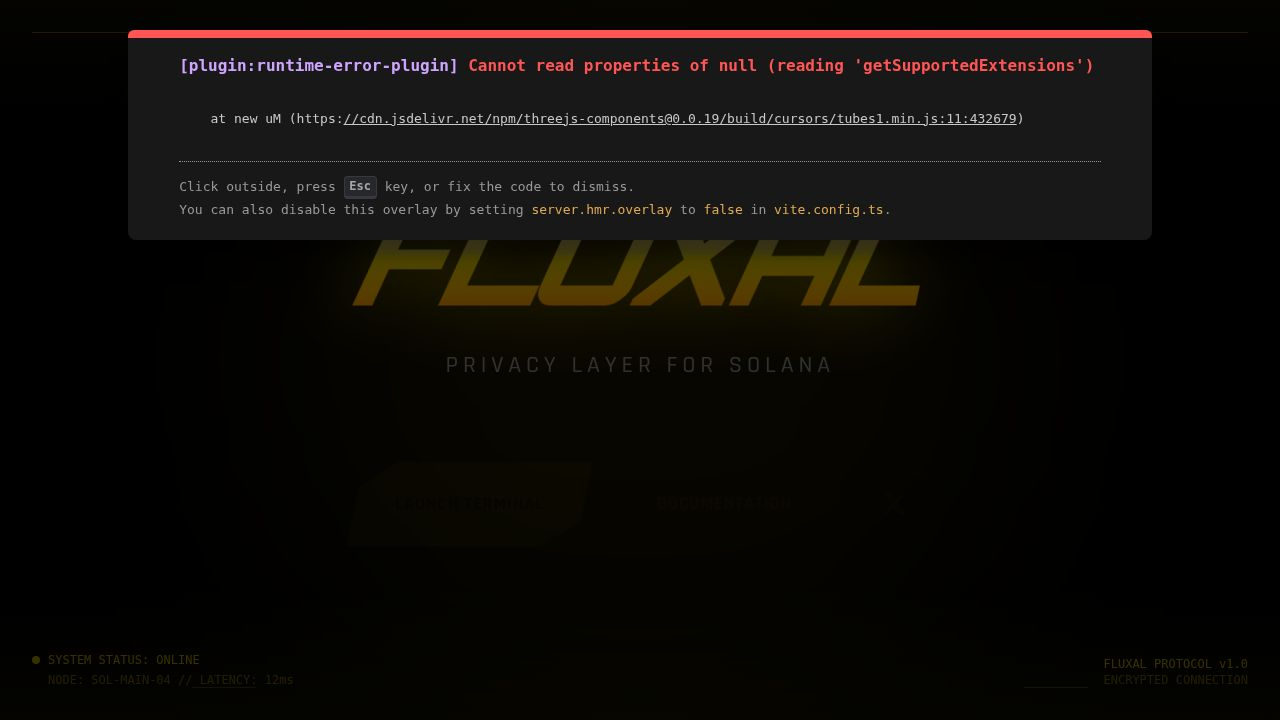
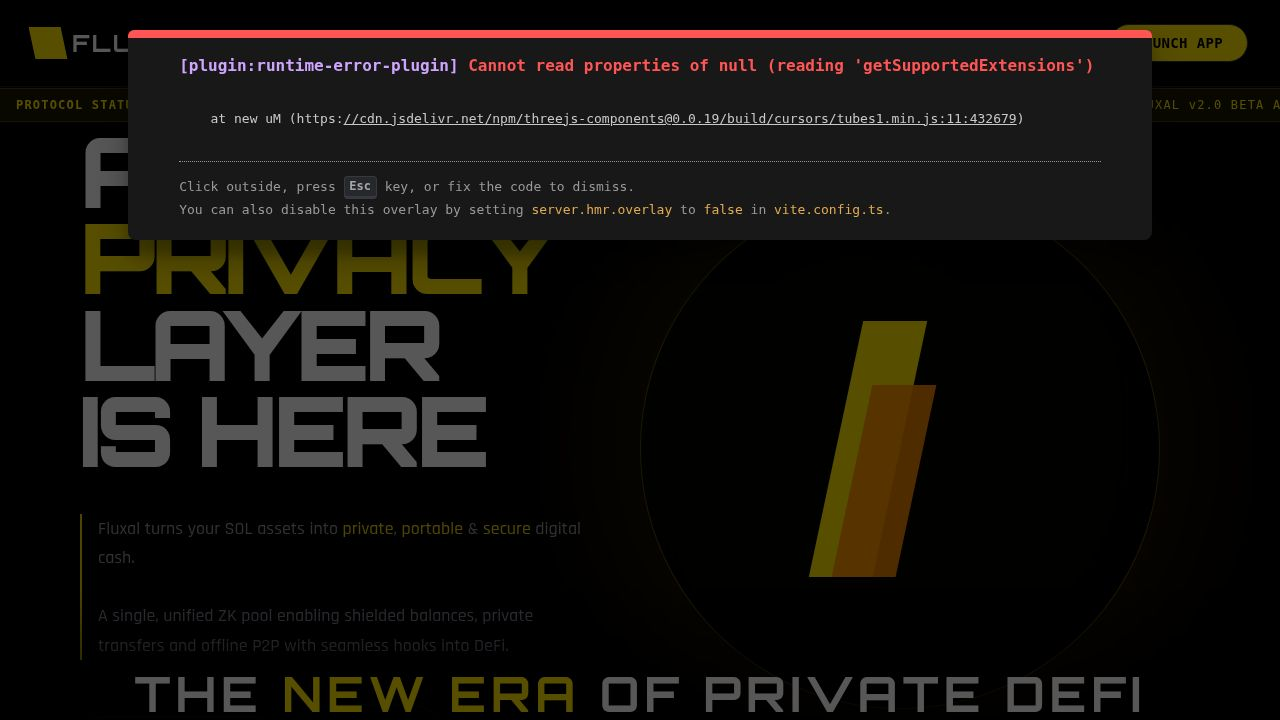
Update homepage with navigation and wallet integration
Refactors the home page component to include a new navigation bar, wallet address display with copy functionality, and integrates the FluxalLoader component for the launch sequence.

Replit-Commit-Author: Agent
Replit-Commit-Session-Id: c866b8f1-3def-4df0-9cce-536dd4f951a3
Replit-Commit-Checkpoint-Type: full_checkpoint
Replit-Commit-Event-Id: eb28b85c-f1ec-4af6-9dc8-a794ed8f773f
Replit-Commit-Screenshot-Url: https://storage.googleapis.com/screenshot-production-us-central1/56b10789-079f-4fa8-a399-7307f52e1f15/c866b8f1-3def-4df0-9cce-536dd4f951a3/D9wEFYd
Replit-Helium-Checkpoint-Created: true

diff --git a/client/src/pages/home.tsx b/client/src/pages/home.tsx
@@ -3,136 +3,173 @@ import FluxalLoader from "@/components/FluxalLoader";
 import { Button } from "@/components/ui/button";
 import { motion, AnimatePresence } from "framer-motion";
 import { useState } from "react";
-
-import xLogo from "@assets/image_1764912714351.png";
-
-import { useLocation } from "wouter";
+import { Copy, MoveRight } from "lucide-react";
+import { useToast } from "@/hooks/use-toast";
 
 export default function Home() {
   const [isLoading, setIsLoading] = useState(false);
-  const [, setLocation] = useLocation();
+  const { toast } = useToast();
 
   const handleLaunch = () => {
     setIsLoading(true);
-    // Simulate loading delay
     setTimeout(() => {
       setIsLoading(false);
       window.location.href = '/terminal.html';
     }, 3000);
   };
 
+  const copyAddress = () => {
+    navigator.clipboard.writeText("8avjtJHAHfqp4g2RR9ALAGBpSTqKPZR8nRbzStWFLUX");
+    toast({
+      title: "Address Copied",
+      description: "Contract address copied to clipboard",
+      className: "bg-[#FFE500] text-black border-none font-mono",
+    });
+  };
+
   return (
-    <div className="min-h-screen bg-black text-white overflow-hidden relative selection:bg-[#FFE500] selection:text-black">
+    <div className="min-h-screen bg-black text-white overflow-hidden relative font-rajdhani selection:bg-[#FFE500] selection:text-black">
       <AnimatePresence>
         {isLoading && (
-            <motion.div
-                initial={{ opacity: 0 }}
-                animate={{ opacity: 1 }}
-                exit={{ opacity: 0 }}
-                transition={{ duration: 0.5 }}
-                className="fixed inset-0 z-[100]"
-            >
-                <FluxalLoader />
-            </motion.div>
+          <motion.div
+            initial={{ opacity: 0 }}
+            animate={{ opacity: 1 }}
+            exit={{ opacity: 0 }}
+            transition={{ duration: 0.5 }}
+            className="fixed inset-0 z-[100]"
+          >
+            <FluxalLoader />
+          </motion.div>
         )}
       </AnimatePresence>
 
-      {/* Background Cursor Effect */}
+      {/* Cursor Effect */}
       <FluxalCursor />
 
-      {/* Static Background Glow */}
-      <div className="absolute inset-0 pointer-events-none z-0">
-        <div className="absolute top-1/2 left-1/2 -translate-x-1/2 -translate-y-1/2 w-[800px] h-[800px] bg-[#FFE500]/5 rounded-full blur-[120px]" />
-        <div className="absolute top-1/2 left-1/2 -translate-x-1/2 -translate-y-1/2 w-[600px] h-[400px] bg-[#FF8C00]/5 rounded-full blur-[100px] mix-blend-screen" />
+      {/* Top Navigation Bar */}
+      <nav className="fixed top-0 w-full z-50 flex items-center justify-between px-8 py-6 bg-black/50 backdrop-blur-sm border-b border-white/10">
+        <div className="flex items-center gap-2">
+          <div className="w-8 h-8 bg-[#FFE500] transform skew-x-12" />
+          <span className="text-2xl font-orbitron font-bold tracking-widest text-white">FLUXAL</span>
+        </div>
+
+        <div className="hidden md:flex items-center gap-8 font-mono text-sm text-gray-400 tracking-widest">
+          <a href="#" className="hover:text-[#FFE500] transition-colors">HOME</a>
+          <a href="#" className="hover:text-[#FFE500] transition-colors">FEATURES</a>
+          <a href="#" className="hover:text-[#FFE500] transition-colors">PRODUCTS</a>
+          <a href="#" className="hover:text-[#FFE500] transition-colors">NEWS</a>
+          <a href="#" className="hover:text-[#FFE500] transition-colors">DOCS</a>
+          <a href="#" className="hover:text-[#FFE500] transition-colors">FAQ</a>
+        </div>
+
+        <Button 
+          onClick={handleLaunch}
+          className="bg-[#FFE500] hover:bg-[#FF8C00] text-black font-bold rounded-full px-6 font-mono tracking-wide"
+        >
+          LAUNCH APP
+        </Button>
+      </nav>
+
+      {/* Ticker Bar */}
+      <div className="fixed top-[88px] w-full z-40 bg-[#FFE500]/10 border-y border-[#FFE500]/20 py-2 px-4 overflow-hidden">
+        <div className="flex items-center gap-4 text-xs font-mono text-[#FFE500] tracking-widest whitespace-nowrap animate-marquee">
+          <span className="font-bold">PROTOCOL STATUS: LIVE</span>
+          <span>//</span>
+          <span>PRIVACY POOL TVL: $142,892,102</span>
+          <span>//</span>
+          <span>LATEST AUDIT PASSED (CERTIK)</span>
+          <span>//</span>
+          <span>NEW ZK-SNARK CIRCUITS DEPLOYED</span>
+          <span>//</span>
+          <span>FLUXAL v2.0 BETA ACCESS OPEN</span>
+        </div>
       </div>
 
-      {/* Content Overlay */}
-      <div className="relative z-10 flex flex-col items-center justify-center min-h-screen px-4">
+      {/* Main Hero Section */}
+      <div className="relative z-10 flex flex-col md:flex-row min-h-screen pt-32 px-8 md:px-20">
         
-        <motion.div
-          initial={{ opacity: 0, scale: 0.9 }}
-          animate={{ opacity: 1, scale: 1 }}
-          transition={{ duration: 0.8, ease: "easeOut" }}
-          className="text-center relative"
-        >
-          {/* Main Title */}
-          <h1 className="text-7xl md:text-9xl font-black tracking-tighter font-orbitron bg-clip-text text-transparent bg-gradient-to-b from-white via-[#FFE500] to-[#FF8C00] drop-shadow-[0_0_35px_rgba(255,229,0,0.6)] select-none italic transform -skew-x-12">
-            FLUXAL
-          </h1>
+        {/* Left Content */}
+        <div className="flex-1 flex flex-col justify-center space-y-10">
           
-          {/* Subtitle */}
-          <motion.p 
-            initial={{ opacity: 0, y: 20 }}
-            animate={{ opacity: 1, y: 0 }}
-            transition={{ delay: 0.4, duration: 0.6 }}
-            className="mt-6 text-xl md:text-2xl text-neutral-400 font-rajdhani tracking-[0.2em] uppercase font-medium"
+          {/* Main Heading */}
+          <motion.div
+            initial={{ opacity: 0, x: -20 }}
+            animate={{ opacity: 1, x: 0 }}
+            transition={{ duration: 0.8 }}
+            className="relative"
           >
-            Privacy Layer for Solana
-          </motion.p>
+            <h1 className="text-6xl md:text-8xl font-black leading-[0.9] font-orbitron text-white tracking-tighter uppercase">
+              A NEW<br />
+              <span className="text-[#FFE500]">PRIVACY</span><br />
+              LAYER<br />
+              IS HERE
+            </h1>
+          </motion.div>
 
-          {/* Action Buttons */}
+          {/* Description */}
+          <motion.div
+            initial={{ opacity: 0 }}
+            animate={{ opacity: 1 }}
+            transition={{ delay: 0.4, duration: 0.8 }}
+            className="max-w-xl"
+          >
+            <p className="text-lg text-gray-400 font-medium leading-relaxed border-l-2 border-[#FFE500] pl-4">
+              Fluxal turns your SOL assets into <span className="text-[#FFE500]">private</span>, <span className="text-[#FFE500]">portable</span> & <span className="text-[#FFE500]">secure</span> digital cash.
+              <br /><br />
+              A single, unified ZK pool enabling shielded balances, private transfers and offline P2P with seamless hooks into DeFi.
+            </p>
+          </motion.div>
+
+          {/* Contract Address Box */}
           <motion.div
             initial={{ opacity: 0, y: 20 }}
             animate={{ opacity: 1, y: 0 }}
-            transition={{ delay: 0.8, duration: 0.6 }}
-            className="mt-16 flex flex-col md:flex-row gap-8 justify-center items-center"
+            transition={{ delay: 0.6, duration: 0.6 }}
+            className="flex flex-col md:flex-row gap-4 items-start md:items-center"
           >
-            <Button 
-              size="lg"
-              onClick={handleLaunch}
-              className="relative group overflow-hidden bg-[#FFE500] text-black hover:bg-[#FFDD00] hover:text-black hover:scale-105 transition-all duration-300 text-lg font-bold px-10 py-7 rounded-none border-none uppercase tracking-wider transform -skew-x-12"
-              style={{ clipPath: "polygon(15% 0, 100% 0, 100% 70%, 85% 100%, 0 100%, 0 30%)" }}
+            <div 
+              onClick={copyAddress}
+              className="group cursor-pointer flex items-center gap-3 px-4 py-3 rounded-full border border-white/20 bg-white/5 hover:bg-white/10 hover:border-[#FFE500]/50 transition-all duration-300"
             >
-              <span className="relative z-10 transform skew-x-12 inline-block">Launch Terminal</span>
-              <div className="absolute inset-0 bg-white/20 translate-y-full group-hover:translate-y-0 transition-transform duration-300" />
-            </Button>
+              <span className="font-mono text-sm text-[#FFE500]">8avjtJ...StWFLUX</span>
+              <Copy className="w-4 h-4 text-gray-400 group-hover:text-white transition-colors" />
+            </div>
             
             <Button 
-              variant="outline"
-              size="lg"
-              className="relative group overflow-hidden border border-[#FFE500]/50 text-[#FFE500] hover:bg-[#FFE500]/10 hover:text-[#FFE500] hover:border-[#FFE500] hover:scale-105 transition-all duration-300 text-lg font-bold px-10 py-7 rounded-none uppercase tracking-wider transform -skew-x-12 bg-transparent backdrop-blur-sm"
-              style={{ clipPath: "polygon(15% 0, 100% 0, 100% 70%, 85% 100%, 0 100%, 0 30%)" }}
+              variant="outline" 
+              className="rounded-full px-8 py-6 border-white/20 text-white hover:bg-[#FFE500] hover:text-black hover:border-[#FFE500] transition-all font-bold tracking-widest"
             >
-              <span className="relative z-10 transform skew-x-12 inline-block">Documentation</span>
+              LEARN MORE
             </Button>
-
-            <a 
-              href="https://x.com/FluxalAI" 
-              target="_blank" 
-              rel="noreferrer"
-              className="relative group overflow-hidden flex items-center justify-center border border-[#FFE500]/50 text-[#FFE500] hover:bg-[#FFE500]/10 hover:text-[#FFE500] hover:border-[#FFE500] hover:scale-105 transition-all duration-300 w-[60px] h-[60px] rounded-none uppercase tracking-wider transform -skew-x-12 bg-transparent backdrop-blur-sm"
-              style={{ clipPath: "polygon(25% 0, 100% 0, 100% 70%, 75% 100%, 0 100%, 0 30%)" }}
-            >
-               <svg viewBox="0 0 24 24" aria-hidden="true" className="w-6 h-6 fill-current relative z-10 transform skew-x-12">
-                <path d="M18.244 2.25h3.308l-7.227 8.26 8.502 11.24H16.17l-5.214-6.817L4.99 21.75H1.68l7.73-8.835L1.254 2.25H8.08l4.713 6.231zm-1.161 17.52h1.833L7.084 4.126H5.117z" />
-              </svg>
-            </a>
           </motion.div>
-        </motion.div>
-      </div>
 
-      {/* Footer / Status / HUD Elements */}
-      <div className="absolute bottom-8 left-8 flex flex-col gap-1 text-[10px] md:text-xs text-[#FFE500]/60 font-mono z-10 pointer-events-none select-none">
-        <div className="flex items-center gap-2">
-          <div className="w-2 h-2 bg-[#FFE500] rounded-full animate-pulse" />
-          <p>SYSTEM STATUS: ONLINE</p>
         </div>
-        <p className="pl-4 opacity-60">NODE: SOL-MAIN-04 // LATENCY: 12ms</p>
+
+        {/* Right Visual (3D Element Placeholder) */}
+        <div className="flex-1 flex items-center justify-center relative">
+          <div className="relative w-[400px] h-[400px] md:w-[600px] md:h-[600px]">
+            {/* Glowing Orb / Logo Placeholder */}
+            <div className="absolute inset-0 bg-gradient-to-br from-[#FFE500]/20 to-[#FF8C00]/20 rounded-full blur-3xl animate-pulse" />
+            <div className="absolute inset-10 bg-black/80 rounded-full border border-[#FFE500]/30 backdrop-blur-xl flex items-center justify-center overflow-hidden">
+               {/* Stylized 'F' or Logo */}
+               <div className="relative w-48 h-64 flex">
+                  <div className="w-16 h-full bg-[#FFE500] transform -skew-x-12 translate-x-8" />
+                  <div className="w-16 h-48 mt-16 bg-[#FF8C00] transform -skew-x-12 -translate-x-4 opacity-90" />
+               </div>
+            </div>
+          </div>
+        </div>
+
       </div>
 
-      <div className="absolute bottom-8 right-8 text-right text-[10px] md:text-xs text-[#FFE500]/60 font-mono z-10 pointer-events-none select-none">
-        <p>FLUXAL PROTOCOL v1.0</p>
-        <p className="opacity-60">ENCRYPTED CONNECTION</p>
+      {/* Bottom Banner */}
+      <div className="absolute bottom-0 w-full text-center pb-8 pt-20 bg-gradient-to-t from-black to-transparent z-20 pointer-events-none">
+        <h2 className="text-3xl md:text-5xl font-orbitron font-bold tracking-widest text-white">
+          THE <span className="text-[#FFE500]">NEW ERA</span> OF PRIVATE DEFI
+        </h2>
+        <div className="w-32 h-1 bg-[#FFE500] mx-auto mt-4" />
       </div>
 
-      {/* Decorative HUD Lines */}
-      <div className="absolute top-0 left-0 w-full h-32 bg-gradient-to-b from-[#FFE500]/5 to-transparent pointer-events-none" />
-      <div className="absolute bottom-0 left-0 w-full h-32 bg-gradient-to-t from-[#FFE500]/5 to-transparent pointer-events-none" />
-      
-      <div className="absolute top-8 left-8 w-32 h-[1px] bg-[#FFE500]/30" />
-      <div className="absolute top-8 right-8 w-32 h-[1px] bg-[#FFE500]/30" />
-      <div className="absolute bottom-8 left-48 w-16 h-[1px] bg-[#FFE500]/20" />
-      <div className="absolute bottom-8 right-48 w-16 h-[1px] bg-[#FFE500]/20" />
     </div>
   );
 }
